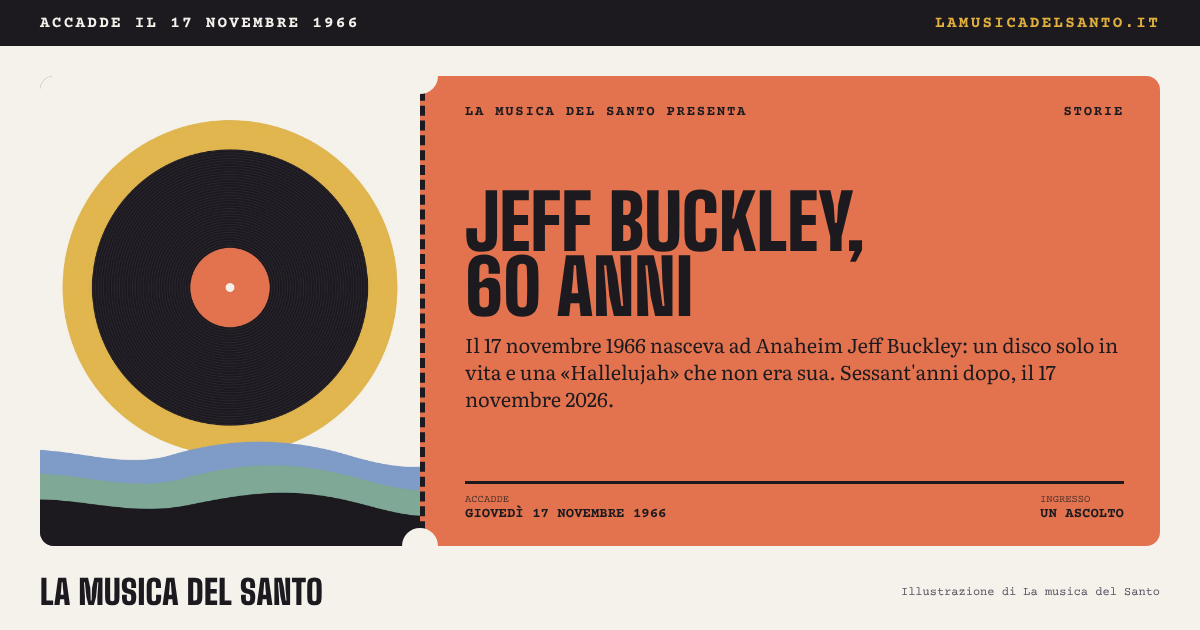
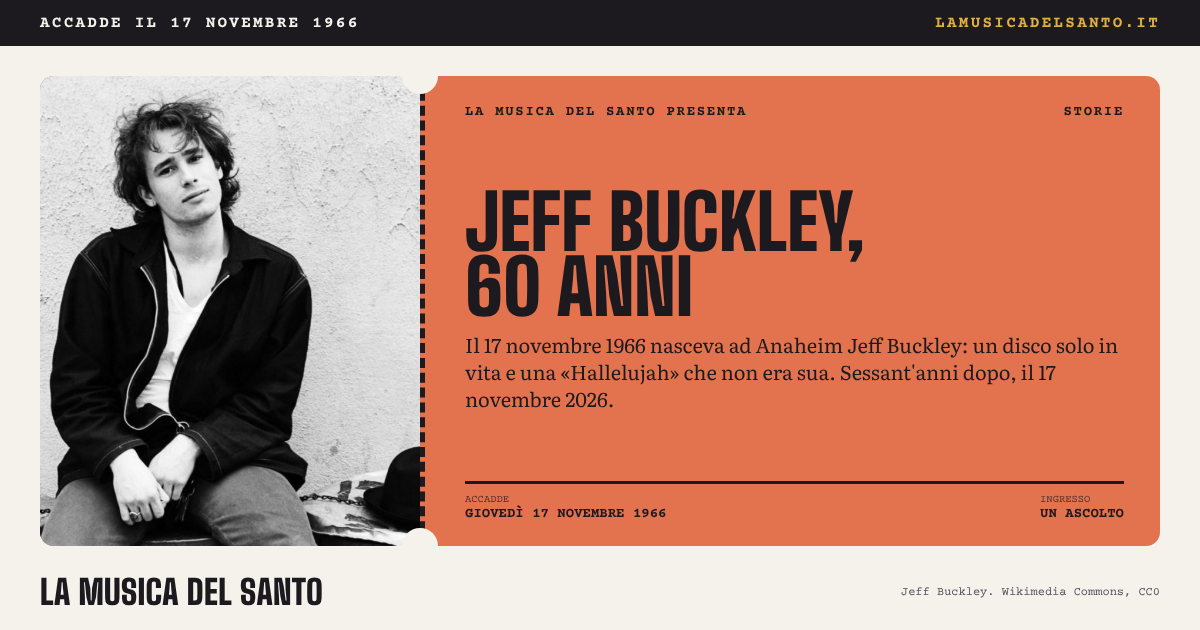
Jeff Buckley: ritratto in copertina, copertina di Grace nel testo (decisione di Marco)
Ritratto da Wikimedia Commons (File:Jeff Buckley.jpg, segnato CC0): Marco ha scelto
di usarlo assumendosene la responsabilità. Copertina di Grace accanto al passaggio
sul disco, con la didascalia ©. Grafiche social rigenerate.

Claude-Session: https://claude.ai/code/session_01GmcXVzNX4MpzM44zcfffJk

Changed region(s): [[0.0308, 0.1206, 0.37, 0.8746], [0.7708, 0.9349, 0.9558, 0.9651]]

diff --git a/src/content/articoli/jeff-buckley-60-anni.md b/src/content/articoli/jeff-buckley-60-anni.md
@@ -11,9 +11,9 @@ tags:
 - grace
 - hallelujah
 - cantautori
-cover: /images/articoli/jeff-buckley-60-anni/jeff-buckley-60-anni-copertina.jpg
-coverAlt: 'Illustrazione con un disco in vinile giallo e nero con l’etichetta terracotta, il numero 60 in grande e onde blu, verdi e nere in basso.'
-coverCredit: 'Illustrazione di La musica del Santo'
+cover: /images/articoli/jeff-buckley-60-anni/jeff-buckley-ritratto.jpg
+coverAlt: 'Jeff Buckley in bianco e nero, seduto davanti a un muro chiaro, giacca scura e maglietta bianca, con un cappello nero appoggiato accanto.'
+coverCredit: 'Jeff Buckley. Foto via Wikimedia Commons (CC0)'
 ascolto:
   titolo: 'Grace (1994)'
   nota: 'L’unico album finito in vita: dieci canzoni tra rock, soul e una «Hallelujah» diventata la più famosa di tutte.'
@@ -40,6 +40,8 @@ In quella serata conosce anche il chitarrista **Gary Lucas** (ex Magic Band di C
 Dal **1992** Jeff suona da solo, voce e chitarra elettrica, al **Sin-é**, un caffè irlandese di St. Mark’s Place, nell’East Village, di proprietà del dublinese **Shane Doyle**. Il suo manager di allora, Dave Lory, lo ricorda come un posto da una quarantina di persone. Eppure lì dentro succede qualcosa di incredibile: **Paul Rappaport** della Sony si convince in cinque minuti sentendolo cantare Van Morrison, e nell’**ottobre 1992** Jeff firma con la **Columbia** per tre album. Anche la Columbia, a quanto raccontano le fonti, non sapeva ancora se sapesse scrivere canzoni.
 
 *Grace* viene registrato dall’autunno del **1993** ai Bearsville Studios di Woodstock, con **Andy Wallace** alla produzione, **Mick Grondahl** al basso e **Matt Johnson** alla batteria. Un dettaglio che amiamo: Grondahl l’aveva visto suonare da solo in una cripta della Columbia University e mesi dopo lo aveva fermato per strada. La band suonava insieme da **quattro settimane** quando partì per Woodstock: «siamo diventati una band facendo il disco».
+
+![La copertina di Grace: Jeff Buckley a capo chino con un microfono d’epoca in mano, su uno sfondo blu scuro](/images/articoli/jeff-buckley-60-anni/grace-copertina-album.jpg "La copertina di «Grace» di Jeff Buckley (1994). © dei titolari dei diritti, riprodotta per critica e discussione")
 
 Esce il **23 agosto 1994**: dieci brani, **sette originali e tre cover** («Lilac Wine», «Corpus Christi Carol» di Britten e una certa «Hallelujah»; nell’edizione in streaming c’è anche «Forget Her»). Vende poco: il picco, negli Stati Uniti, è il **n. 149** della Billboard 200. Eppure i colleghi capiscono subito: tra i fan dichiarati ci sono Jimmy Page, Robert Plant, Paul McCartney, Bob Dylan, David Bowie e Chris Cornell. Il **13 aprile 1995** la Francia gli assegna il Grand Prix International du Disque dell’Académie Charles Cros.
 
